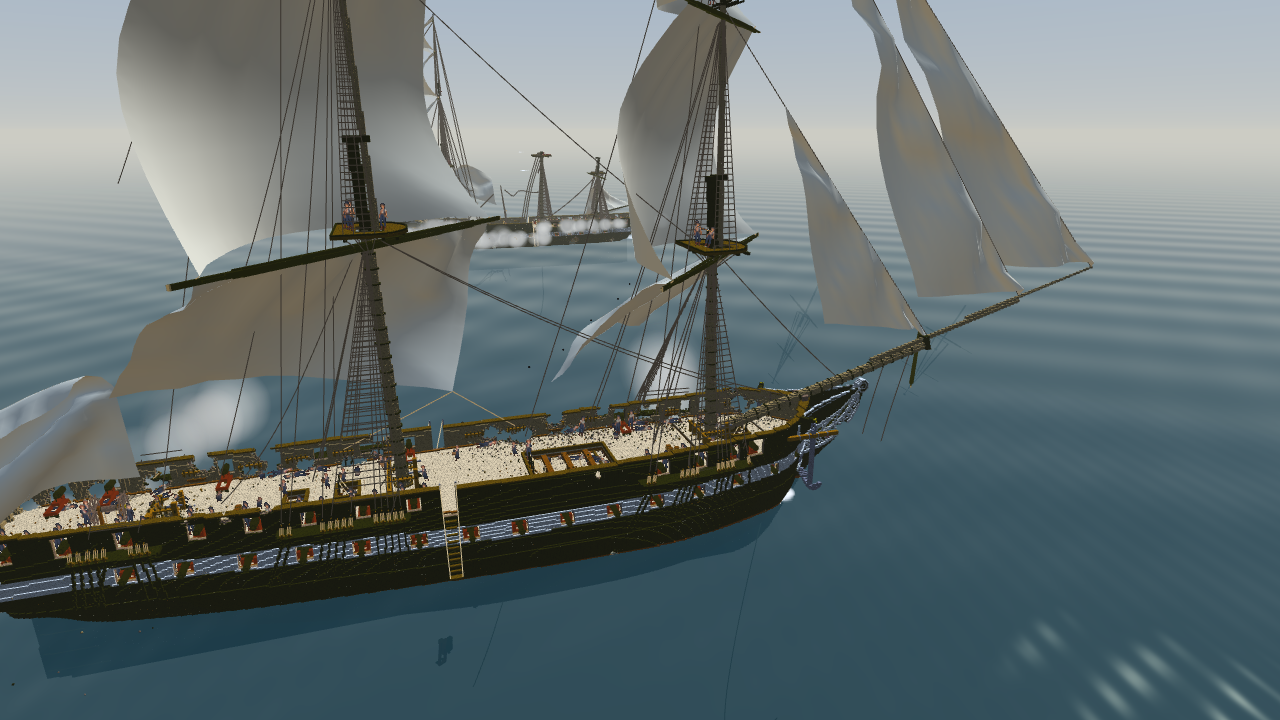
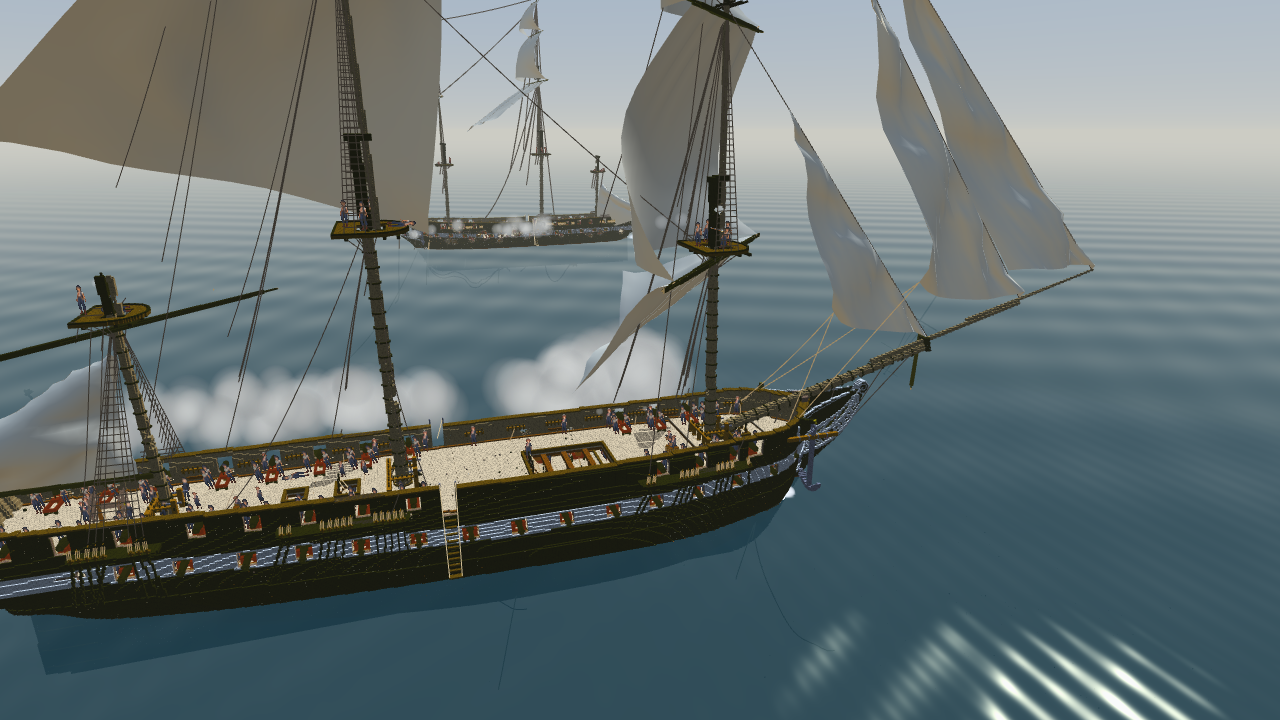
fix(games): 《憲法號對轟》桅頂水手站到真正的桅頂（後桅以前被跳過、前桅有人爬到高處橫桁）
Refs TASK-0514

以前從 z 250 往上找、不夠四個就繼續往上、頭頂只看 0.6 m：
- 後桅的桅頂在 z 241 ⇒ 被跳過，兩個人站到 z 377 的高處橫桁上；
- 前桅三個在桅頂（263），第四個爬到 z 426。

現在從 z 200 往上，第一層有 6 個以上站得住的點（腳下實心、頭頂 1.4 m 空，同一般站位）的平台 ＝ 桅頂，在上面分散站四個人（先對角、再補中間），不夠也不往上爬。

讀數（憲法號）：
- 平台掃描：前桅 263（51 個點）、主桅 286（48）、後桅 241（49）；更高的 377–465 只有 6–13 個點（橫桁）。
- 修改後：12 人全在 263／286／241，各桅四個方向；每艘船員 271 ⇒ 273（後桅從 2 人補到 4 人）。README 與展品卡的人數一起改（舊的寫 272，本來就差一）。
- 縮圖 ?demo=75&still=1&cam=deck：f856625d… ⇒ bbebdf12…（兩次逐位元組相同）。多兩個開火槍的人，亂數的走法跟著變，戰局不同；RawImages 的縮圖跟著換。

同一格驗收的其他站位項目已經在之前的提交裡：甲板交疊處照高度分層（blocked）、追擊砲射界繞自己的砲軸（muzzle − breech）、舵手站舵輪後面。

diff --git a/HtmlGames/ame_constitution_broadside.html b/HtmlGames/ame_constitution_broadside.html
@@ -2966,13 +2966,24 @@ function makeCrew(sh) {
   [[qx + 22, CY + 8], [qx + 30, CY - 6], [qx + 40, CY + 14], [qx + 14, CY - 12]].forEach(function (p) { add(ROLE.OFFICER, standNear(g, p[0], p[1], sz0, sz1, 14, taken), null, 1); });
   var cap = crew.filter(function (c) { return c.role === ROLE.OFFICER; })[0]; if (cap) cap.art = ART_CAPTAIN;   // 船長：只換貼圖
   if (wheel) { var wx = Math.floor(wheel.bb[0]) - 3; [[wx, CY + 3], [wx, CY - 3]].forEach(function (p) { add(ROLE.HELM, standNear(g, p[0], p[1], sz0, sz1, 14, taken), null, -1); }); }   // 舵輪後面（⛔ 舵輪中心往後 4 格還在舵輪的外框裡 ⇒ 以前一個舵手都站不上去）
-  // 桅頂：每根桅的平台上找四個可以站的位置
+  // 桅頂：每根桅最低的那層平台（從 z 200 往上，第一層有 6 個以上站得住的點）上分散站四個人；頭頂 1.4 m 空（同一般站位）。
+  //   憲法號：前桅 263、主桅 286、後桅 241。⛔ 從 250 找 ⇒ 跳過後桅的桅頂；⛔ 不夠四個就往上找 ⇒ 站到 377–465 的高處橫桁上；⛔ 頭頂只看 0.6 m
+  var TOP_A = [0, 8, 4, 12, 2, 10, 6, 14, 1, 9, 5, 13, 3, 11, 7, 15], TOP_R = [12, 15, 9, 18];   // 角度照「先對角、再補中間」排 ⇒ 四個人分散在平台四周
+  function topSpot(m, k, r, z) {
+    var a = k / 16 * 6.2832, px = Math.round(m.x + Math.cos(a) * r), py = Math.round(CY + Math.sin(a) * r);
+    if (taken[px + ',' + py + ',' + z] || !g.get(px, py, z - 1) || g.get(px, py, z)) return null;
+    for (var h = 1; h < 14; h++) if (g.get(px, py, z + h)) return null;
+    return [px, py];
+  }
   sh.masts.forEach(function (m) {
-    var found = 0;
-    for (var z = 250; z < 470 && found < 4; z += 1) for (var k = 0; k < 8 && found < 4; k++) {
-      var a = k / 8 * 6.2832, px = Math.round(m.x + Math.cos(a) * 11), py = Math.round(CY + Math.sin(a) * 11);
-      if (taken[px + ',' + py + ',' + z]) continue;
-      if (g.get(px, py, z - 1) && !g.get(px, py, z) && !g.get(px, py, z + 6)) { taken[px + ',' + py + ',' + z] = 1; add(ROLE.TOP, [px + 0.5, py + 0.5, z], null, 1); found++; }
+    for (var z = 200; z < 470; z++) {
+      var n = 0; TOP_A.forEach(function (k) { TOP_R.forEach(function (r) { if (topSpot(m, k, r, z)) n++; }); });
+      if (n < 6) continue;
+      var found = 0;
+      TOP_A.forEach(function (k) {
+        for (var i = 0; i < TOP_R.length && found < 4; i++) { var p = topSpot(m, k, TOP_R[i], z); if (p) { taken[p[0] + ',' + p[1] + ',' + z] = 1; add(ROLE.TOP, [p[0] + 0.5, p[1] + 0.5, z], null, 1); found++; return; } }
+      });
+      return;
     }
   });
   return crew;

diff --git a/HtmlGames/_build/ame_constitution_broadside/js/40_crew.js b/HtmlGames/_build/ame_constitution_broadside/js/40_crew.js
@@ -70,13 +70,24 @@ function makeCrew(sh) {
   [[qx + 22, CY + 8], [qx + 30, CY - 6], [qx + 40, CY + 14], [qx + 14, CY - 12]].forEach(function (p) { add(ROLE.OFFICER, standNear(g, p[0], p[1], sz0, sz1, 14, taken), null, 1); });
   var cap = crew.filter(function (c) { return c.role === ROLE.OFFICER; })[0]; if (cap) cap.art = ART_CAPTAIN;   // 船長：只換貼圖
   if (wheel) { var wx = Math.floor(wheel.bb[0]) - 3; [[wx, CY + 3], [wx, CY - 3]].forEach(function (p) { add(ROLE.HELM, standNear(g, p[0], p[1], sz0, sz1, 14, taken), null, -1); }); }   // 舵輪後面（⛔ 舵輪中心往後 4 格還在舵輪的外框裡 ⇒ 以前一個舵手都站不上去）
-  // 桅頂：每根桅的平台上找四個可以站的位置
+  // 桅頂：每根桅最低的那層平台（從 z 200 往上，第一層有 6 個以上站得住的點）上分散站四個人；頭頂 1.4 m 空（同一般站位）。
+  //   憲法號：前桅 263、主桅 286、後桅 241。⛔ 從 250 找 ⇒ 跳過後桅的桅頂；⛔ 不夠四個就往上找 ⇒ 站到 377–465 的高處橫桁上；⛔ 頭頂只看 0.6 m
+  var TOP_A = [0, 8, 4, 12, 2, 10, 6, 14, 1, 9, 5, 13, 3, 11, 7, 15], TOP_R = [12, 15, 9, 18];   // 角度照「先對角、再補中間」排 ⇒ 四個人分散在平台四周
+  function topSpot(m, k, r, z) {
+    var a = k / 16 * 6.2832, px = Math.round(m.x + Math.cos(a) * r), py = Math.round(CY + Math.sin(a) * r);
+    if (taken[px + ',' + py + ',' + z] || !g.get(px, py, z - 1) || g.get(px, py, z)) return null;
+    for (var h = 1; h < 14; h++) if (g.get(px, py, z + h)) return null;
+    return [px, py];
+  }
   sh.masts.forEach(function (m) {
-    var found = 0;
-    for (var z = 250; z < 470 && found < 4; z += 1) for (var k = 0; k < 8 && found < 4; k++) {
-      var a = k / 8 * 6.2832, px = Math.round(m.x + Math.cos(a) * 11), py = Math.round(CY + Math.sin(a) * 11);
-      if (taken[px + ',' + py + ',' + z]) continue;
-      if (g.get(px, py, z - 1) && !g.get(px, py, z) && !g.get(px, py, z + 6)) { taken[px + ',' + py + ',' + z] = 1; add(ROLE.TOP, [px + 0.5, py + 0.5, z], null, 1); found++; }
+    for (var z = 200; z < 470; z++) {
+      var n = 0; TOP_A.forEach(function (k) { TOP_R.forEach(function (r) { if (topSpot(m, k, r, z)) n++; }); });
+      if (n < 6) continue;
+      var found = 0;
+      TOP_A.forEach(function (k) {
+        for (var i = 0; i < TOP_R.length && found < 4; i++) { var p = topSpot(m, k, TOP_R[i], z); if (p) { taken[p[0] + ',' + p[1] + ',' + z] = 1; add(ROLE.TOP, [p[0] + 0.5, p[1] + 0.5, z], null, 1); found++; return; } }
+      });
+      return;
     }
   });
   return crew;

diff --git a/HtmlGames/_build/ame_constitution_broadside/README.md b/HtmlGames/_build/ame_constitution_broadside/README.md
@@ -83,7 +83,7 @@ python -I ../../../VoxelKit/vxk_inline.py template.html ../../ame_constitution_b
   命中：實心與爆裂彈要真的碰到網格 —— 載入時把每份網格轉成 0.1 m 的佔用格（三角形每 0.4 格取一點、往法線反方向半格那一格算實心，再外擴一格 ≈ 彈的半徑，`meshOcc`）；鏈彈橫掃 2.4 m ⇒ 外框外擴 1 m 就算。
   ⛔ 只看外框：長砲的外框 1.3 × 3.1 m，空的角落也算 ⇒ 砲甲板一半的彈都打得到砲（量過：40 秒掉 26 門 → 改佔用格後 15 門）。
   `hitModel` 只看砲彈所在那一桶（x 每 16 格一桶）。carronade 初速 140 m/s、裝填 0.7 倍；追擊砲 165 m/s。
-- **船員**（billboard，每艘 272，人高 2.1 m）：兩舷每門長砲 5 人、carronade 3 人、追擊砲 3 人（一個人物約兩人；Tim：砲班減一人、多出來的去搬火藥，射速照舊 —— 裝填 ∝ 在崗／滿編）；送藥手（每一對砲一個，26）、陸戰隊、軍官、舵手、桅頂水手。站位在載入時於格子上找（腳下實心、頭上 1.4 m 空、避開模型外框 —— 只避同一層的：外框的高度要對得上，`blocked`）。
+- **船員**（billboard，每艘 273，人高 2.1 m）：兩舷每門長砲 5 人、carronade 3 人、追擊砲 3 人（一個人物約兩人；Tim：砲班減一人、多出來的去搬火藥，射速照舊 —— 裝填 ∝ 在崗／滿編）；送藥手（每一對砲一個，26）、陸戰隊、軍官、舵手、桅頂水手（每根桅最低那層平台 4 人：憲法號前 263、主 286、後 241；不往上爬到高處橫桁）。站位在載入時於格子上找（腳下實心、頭上 1.4 m 空、避開模型外框 —— 只避同一層的：外框的高度要對得上，`blocked`）。
   ⛔ 以前用平面的「佔住」標模型外框：長砲改成模型之後，砲甲板的砲把上面 spar deck 的站位也佔掉，艙底的火藥桶更把大半個平面佔掉（少了 16 個砲手）；舵手的站位在舵輪外框裡，一個都沒站上去過 —— 改到舵輪後面。
   貼圖是**單圖**（`art/crew.png` 每個角色一張待命站姿，1 欄 × 7 列鍵色或 × 14 列藍紅；舊的 6／12 列也收、船長用軍官那一列；替代品同樣是單圖）：動作全由程式做（`crewPose`）—— 待命呼吸輕晃、裝填有節奏地前傾下壓、開砲後座往後仰壓扁、跑步彈跳前傾、受傷跪下發抖、陣亡往後倒躺平、墜落翻滾、舵手與桅頂跟著晃；每個人自己的時鐘（`c.t`，開局亂數相位）⇒ 不會整排同步。受傷跪著的人陣亡 ⇒ 從跪姿倒下（`c.fromW`；⛔ 以前會先彈回站直再倒）。**倒下的人躺向固定的方向**（Tim 2026-10-12）：照站位的雜湊挑一個方向（`c.fallD`，船的座標；只給畫用、不碰 `rnd()`），頂點著色器把身體從直立轉向那個方向、貼圖繞身體那條軸轉向鏡頭（實例的 `iA.yzw` ＝ 倒向）⇒ 鏡頭轉，屍體不跟著在甲板上轉，但還是面向鏡頭。⛔ 以前躺倒也是在貼圖平面上轉 90°：從上面看，鏡頭一轉，整排屍體跟著轉。被打中（受傷、陣亡、墜落）那一下閃紅 0.4 秒（`c.t` 在那一刻歸零）。billboard 繞腳底轉（傾斜）、整個人上下、寬高縮放都在 `P.bb` 的頂點著色器裡做。8 欄逐格的圖也收（照欄選格，程式動作只疊 35%）。暫用的 `art/crew.png` 由 `art/src/make_crew.py` 從 Sirius 的水手立繪（`RawImages/sirius_sailor_*_sprite_v1.png`，白底）去背、縮小產生：砲手＝辮子、送藥手＝栗髮（0.75）、軍官＝大副（劍）、陸戰隊＝栗髮（火槍）、桅頂水手＝水手長（繩圈）、舵手＝栗髮、**船長**＝船長（劍；第 7 列，每艘船第一個軍官 `c.art = ART_CAPTAIN`，職位照舊是軍官）。去背：碰到邊的「亮而中性」區塊＝背景（奶油色襯衫不中性 ⇒ 保留），被身體圍住的空隙要很白很平才算，再清掉貼著背景的淺色毛邊；紅隊把深藍的布換成深紅。
   砲要有人操作：在崗人數 < 最少人數（3／2／2）不能開，裝填速度 ∝ (在崗／滿編)^0.85；人不夠時同一層甲板、同一舷（砲甲板 ＝ 長砲＋追擊砲；上甲板 ＝ carronade）集中：開得動的砲人不動；開不了的砲照人數多到少，向最近的空閒的人或同樣開不了的砲借人，借到能開就留下，借不夠的人放出來；空閒的人夠一整門才去開空砲，剩下的補滿（都挑最近的）。其餘沒人操作（HUD ○）。軍官全倒 ⇒ 瞄準散 1.7 倍。
